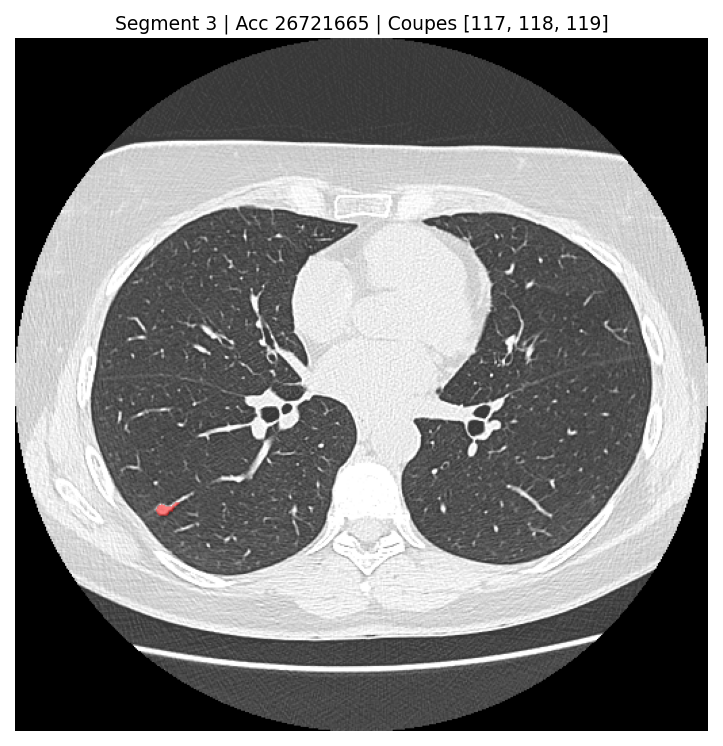
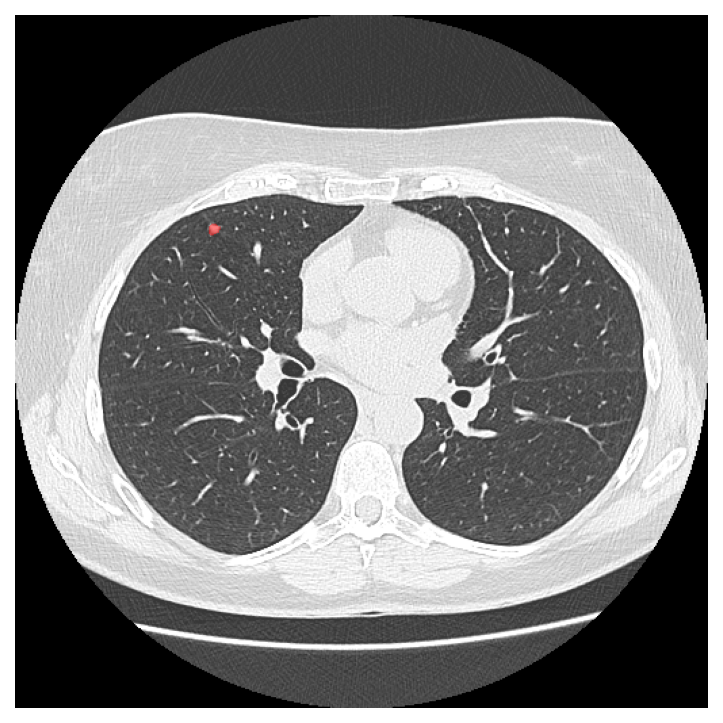
Fix duplicated seg images for patient 17A76C2A; remove title from seg validation images
- Delete stale seg*_unlabeled.png that were generated by old buggy code
  (98426752_seg3 and 26721665_seg3+seg4 were showing the wrong CT slice)
- Regenerate correct images with proper finding_num → frame mapping
- Remove title text from _get_or_create_seg_image for consistency

diff --git a/frontend/front.py b/frontend/front.py
@@ -162,12 +162,7 @@ def _get_or_create_seg_image(
         seg_mask = pixel_array[best_frame_idx]
 
         out_path = out_dir / f"{accession}_seg{seg_num}_unlabeled.png"
-        save_overlay(
-            ct_norm,
-            seg_mask,
-            out_path,
-            title=f"Segment {seg_num} | Acc {accession} | Coupes {image_numbers}",
-        )
+        save_overlay(ct_norm, seg_mask, out_path)
         return str(out_path)
     except Exception as e:
         print(f"[WARN] Could not generate seg image for seg{seg_num}: {e}")
